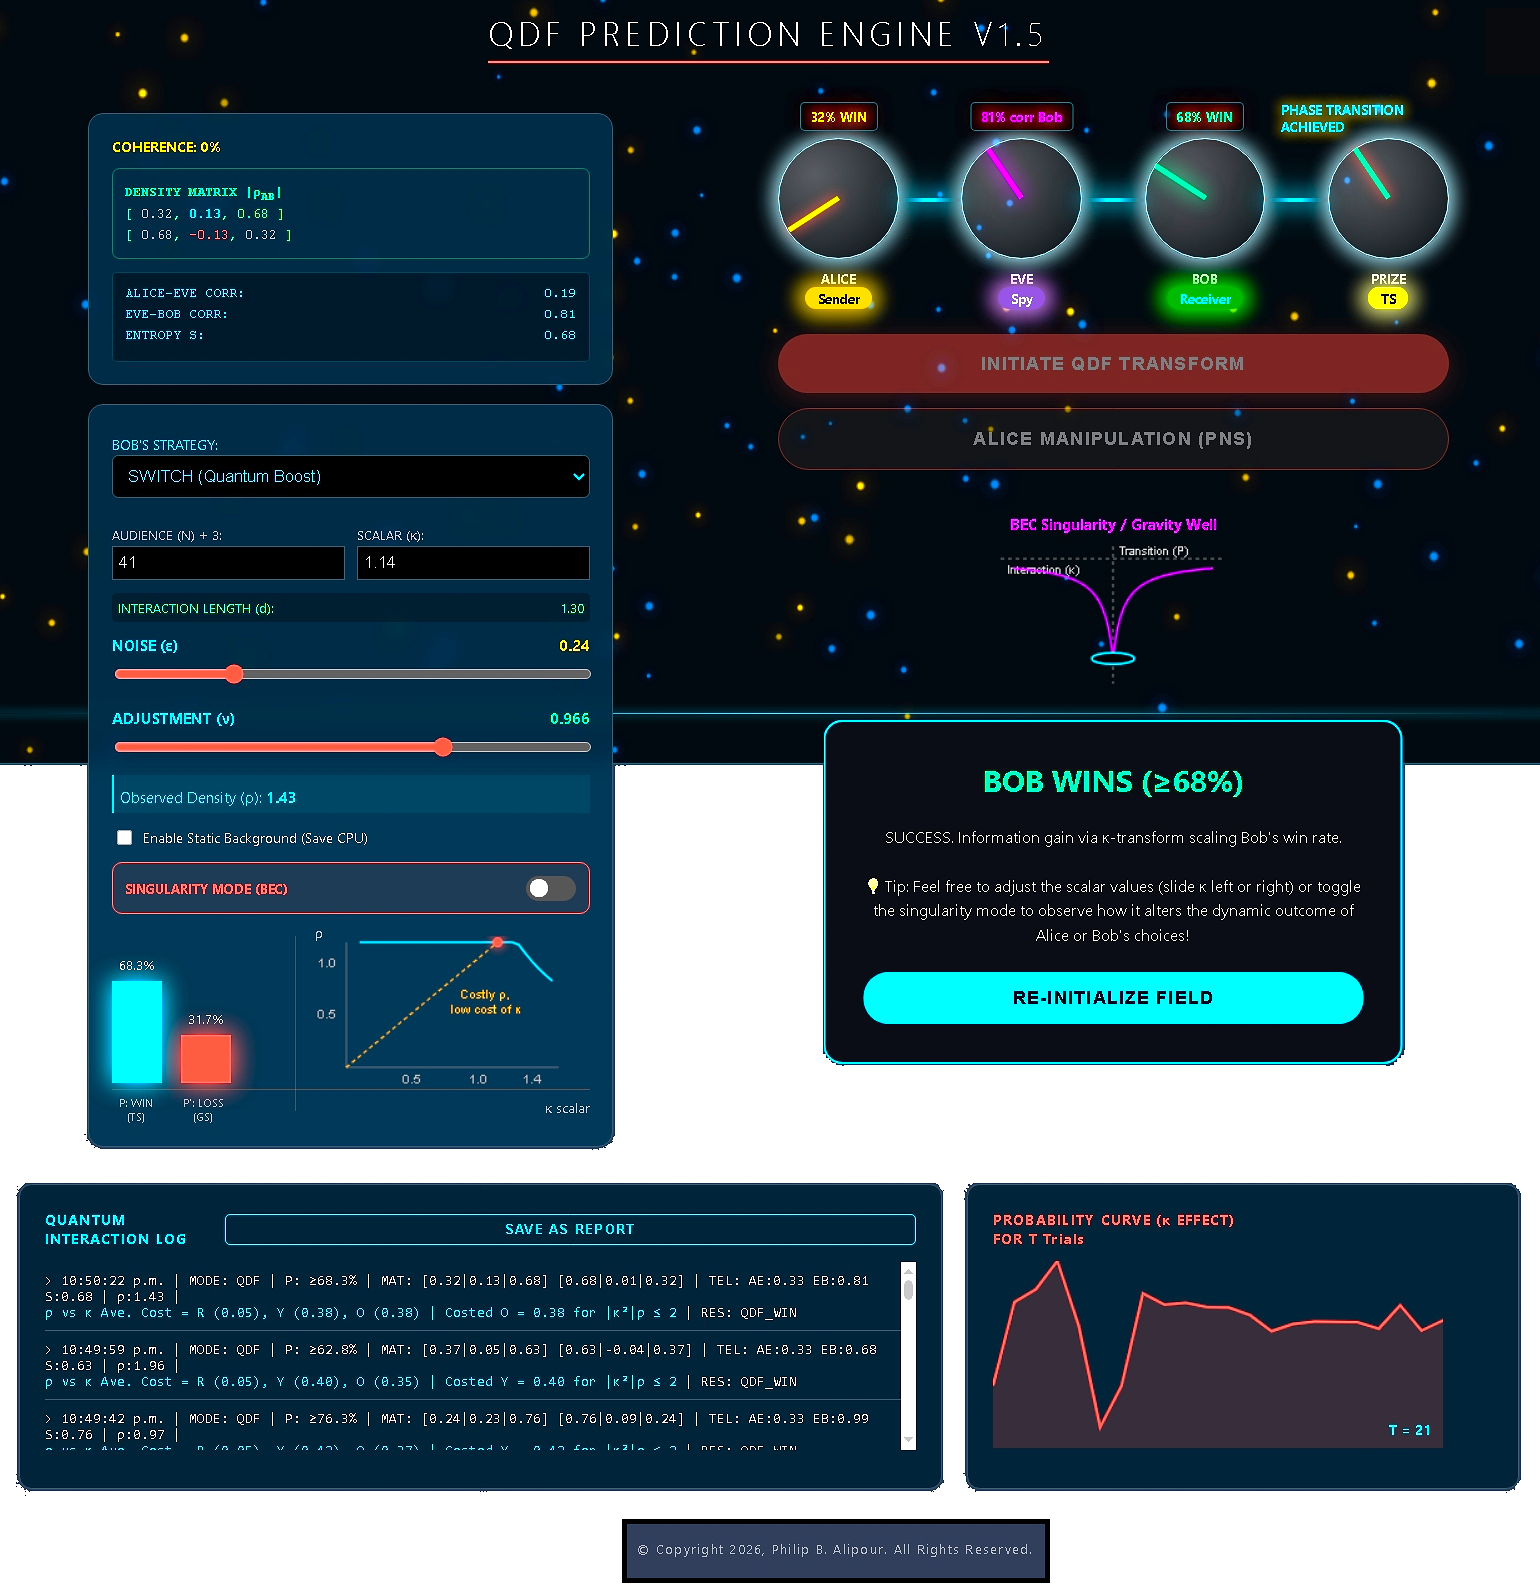
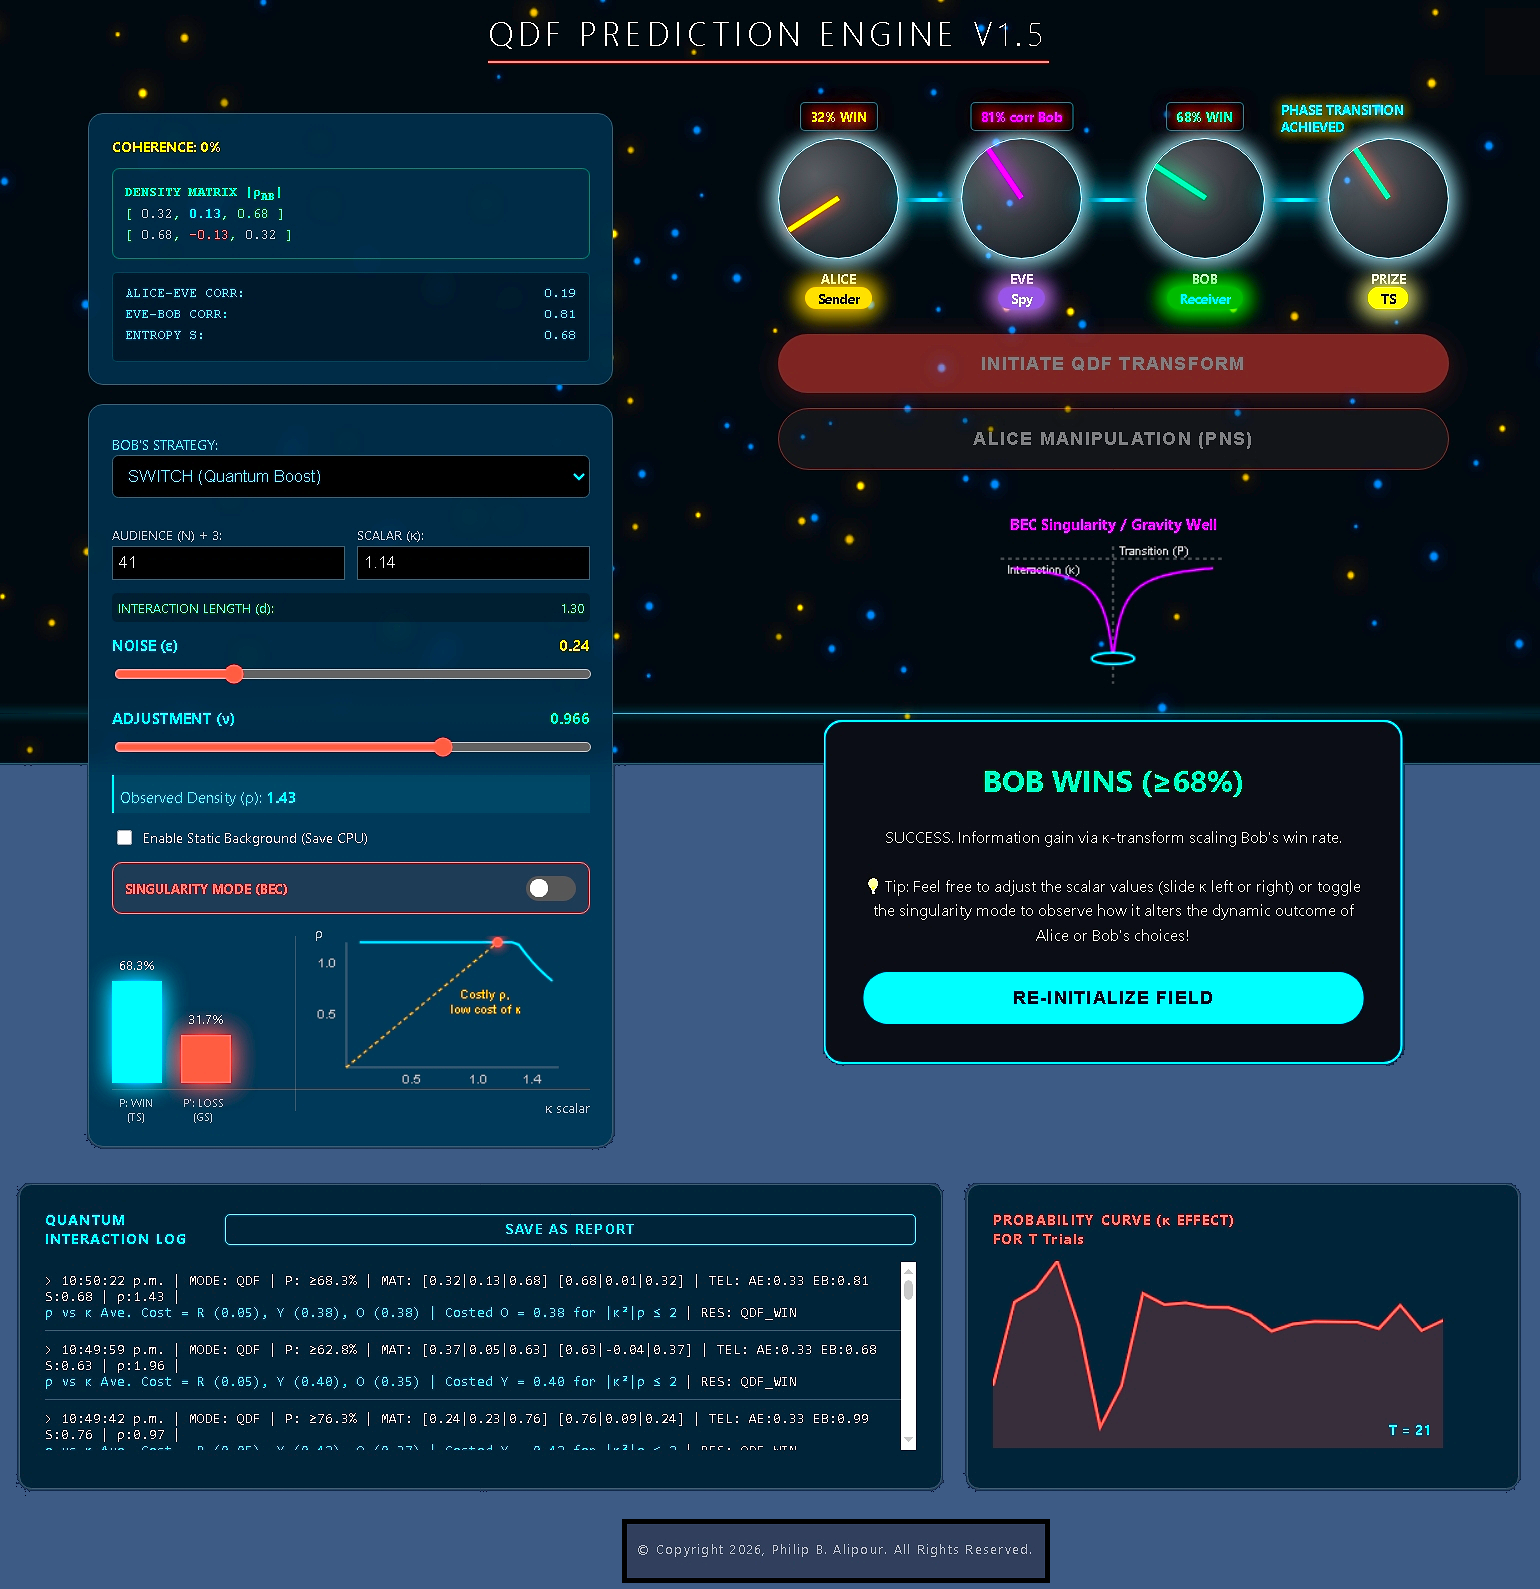
dashboard update

Changed region(s): [[0.0, 0.4626, 1.0, 1.0]]

diff --git a/README.md b/README.md
@@ -160,7 +160,7 @@ This collection serves as a unified portfolio, translating the theoretical frame
 | <a href="#1-2xqubabe-system-simulator-and-architecture"><img src="./assets/2xQuBABE_Banner.png" alt="Synthesis Engine" width="350" style="border-radius:8px; border:2px solid #3b82f6;"></a> | <a href="#2-qdf-phase-and-game-theory-simulator"><img src="./assets/QDF_P_Screenshot01.jpg" alt="Game Theory Simulator" width="350" style="border-radius:8px; border:2px solid #10b981;"></a> |
 |:---:|:---:|
 | **[1. 2xQuBABE™ Hardware Synthesis / Mathematical Engine](#1-2xqubabe-system-simulator-and-architecture)** | **[2. QDF Mains](#2-qdf-phase-and-game-theory-simulator)** |
-| <a href="#3-qf-lc-hypercube-hardware-synthesis-engine-and-phase-simulator"><img src="./assets/QFLCH_Poster.png" alt="Synthesis Engine" width="350" style="border-radius:8px; border:2px solid #3b82f6;"></a> | <a href="#4-qdf-phase-and-game-theory-simulator"><img src="./assets/QDF_P_Screenshot01.jpg" alt="Game Theory Simulator" width="350" style="border-radius:8px; border:2px solid #10b981;"></a> |
+| <a href="#3-qf-lc-hypercube-hardware-synthesis-engine-and-phase-simulator"><img src="./assets/QFLCH_Poster.png" alt="Synthesis Engine" width="350" style="border-radius:8px; border:2px solid #3b82f6;"></a> | <a href="#4-qdf-phase-and-game-theory-simulator"><img src="./assets/QDF_Strong_P2.png" alt="Game Theory Simulator" width="350" style="border-radius:8px; border:2px solid #10b981;"></a> |
 | **[3. QF-LC Hypercube Hardware Synthesis Engine](#3-qf-lc-hypercube-hardware-synthesis-engine-and-phase-simulator)** | **[4. QDF Phase and Game Theory Simulator](#4-qdf-phase-and-game-theory-simulator)** |
 
 | <a href="#5-qf-lcs-system-state-predictions-and-lens-coding-simulator"><img src="./assets/QDF_P_Screenshot01.jpg" alt="QDF Prediction Simulator" width="350" style="border-radius:8px; border:2px solid #f59e0b;"></a> | <a href="#6-qdf-lens-geometry-lab-and-particle-trap"><img src="./assets/QDF_Lens_Screenshot00.JPG" alt="Geometry Lab" width="350" style="border-radius:8px; border:2px solid #8b5cf6;"></a> |
@@ -286,7 +286,7 @@ When executing the interactive simulation above using a high-fidelity state comb
 
 
 ### 4.🎯🔄 QDF Phase and Game Theory Simulator
-<a href="https://phibal12.github.io/QFLC-Dashboard/labs/QDF_P_Engine" target="_blank"><img src="./assets/QDF_P_Screenshot00.JPG" alt="Geometry Lab" height="70%" width="70%" style="border-radius:8px;"></a><br> 
+<a href="https://phibal12.github.io/QFLC-Dashboard/labs/QDF_P_Engine" target="_blank"><img src="./assets/QDF_Strong_P2.png" alt="Geometry Lab" height="70%" width="70%" style="border-radius:8px;"></a><br> 
 *(Demonstrating Quantum Phase Transitions and Participant Decisions)*
 
 This widget translates the QDF model into a game theory environment. As discussed in the seminar's exploration of entanglement and Quantum Key Distribution (QKD), this simulator models scenarios where four or more participants interact on a quantum level. 
@@ -319,9 +319,12 @@ Directly correlating with the "Measurement" and "Lens Focus" sections of the sem
 How does this relate to the QF-LCA Hypercube? This Geometry Lab visualizes the fundamental thermodynamic engine required to "power" the hypercube's multidimensional nodes. Achieving the **Target Phase** visualized in the lens constitutes the physical verification required to successfully trigger a node's logical collapse in Module 1. The trapped particles in the lab act as the physical qubits executing the logic gates, demonstrating Module 4 serves as the critical 'logic fuel' for Module 1's hardware compiler.
 
 ### 7.🧮🧊 QuSoLe DB: Quantum Social Lensing Database and AI
-The QuSole (quantum social lensing) algorithm from [7-9] adapts the QF-LCA field lens to real-world, macro-scale datasets by modeling variables as human event distributions rather than isolated particle systems It projects an event space N onto a Social Lensing (SoLe) target state (TS) vector, given the generated real-time pairwise 2N datasets, with a possible entangled data points/three-way entangled qubits quantifying measured as $M ((2N∕3) ⟨P⟩)$ from the world/environment: 
+<a href="https://phibal12.github.io/QFLC-Dashboard/labs/QuSole_QDF_v1-14" target="_blank"><img src="./assets/QuSoLe_GAbstract_screen.JPEG" alt="QDF Lens Geometry Lab" height="70%" width="70%" style="border-radius:8px;"></a><br> 
+*(Interactive Graphical Abstract of QuSoLe Database and State Transition Predictions)*
 
-$$ P_{\text{ST}}\left(\mathrm{Societal}\right)\geq 1/N───\ [\text{QuSole\ Lensing]}\ \xrightarrow{yields}P_{\text{ST}}\left(\mathrm{Macro}\right)\geq \overset{\text{Measures}}{\overbrace{\mathfrak{M}}}((2N∕3)\ ⟨P_{\text{ST}}⟩)\ \geq 2/3 . $$
+The QuSole (quantum social lensing) algorithm from [7-9] adapts the QF-LCA field lens to real-world, macro-scale datasets by modeling variables as human event distributions rather than isolated particle systems It projects an event space $N$ onto a Social Lensing (SoLe) target state (TS) vector, given the generated real-time pairwise $2N$ datasets, with a possible entangled data points/three-way entangled qubits quantifying measured as $M ((2N∕3) ⟨P⟩)$ from the world/environment: 
+
+$$ P_{\text{ST}}\left(\mathrm{Societal}\right)\geq 1/N ──\ [\text{QuSole Lensing]}\ \xrightarrow{yields}P_{\text{ST}}\left(\mathrm{Macro}\right)\geq \overset{\text{Measures}}{\overbrace{\mathfrak{M}}}((2N∕3)\ ⟨P_{\text{ST}}⟩)\ \geq 2/3 . $$
 
 It employs asymmetric, fix-free social lensing codes that systematically focus/defocus the underlying probability distribution matrices. This algorithm isolates projecting anomalies across noisy macro-data structures without requiring complete matrix evaluation.
 
